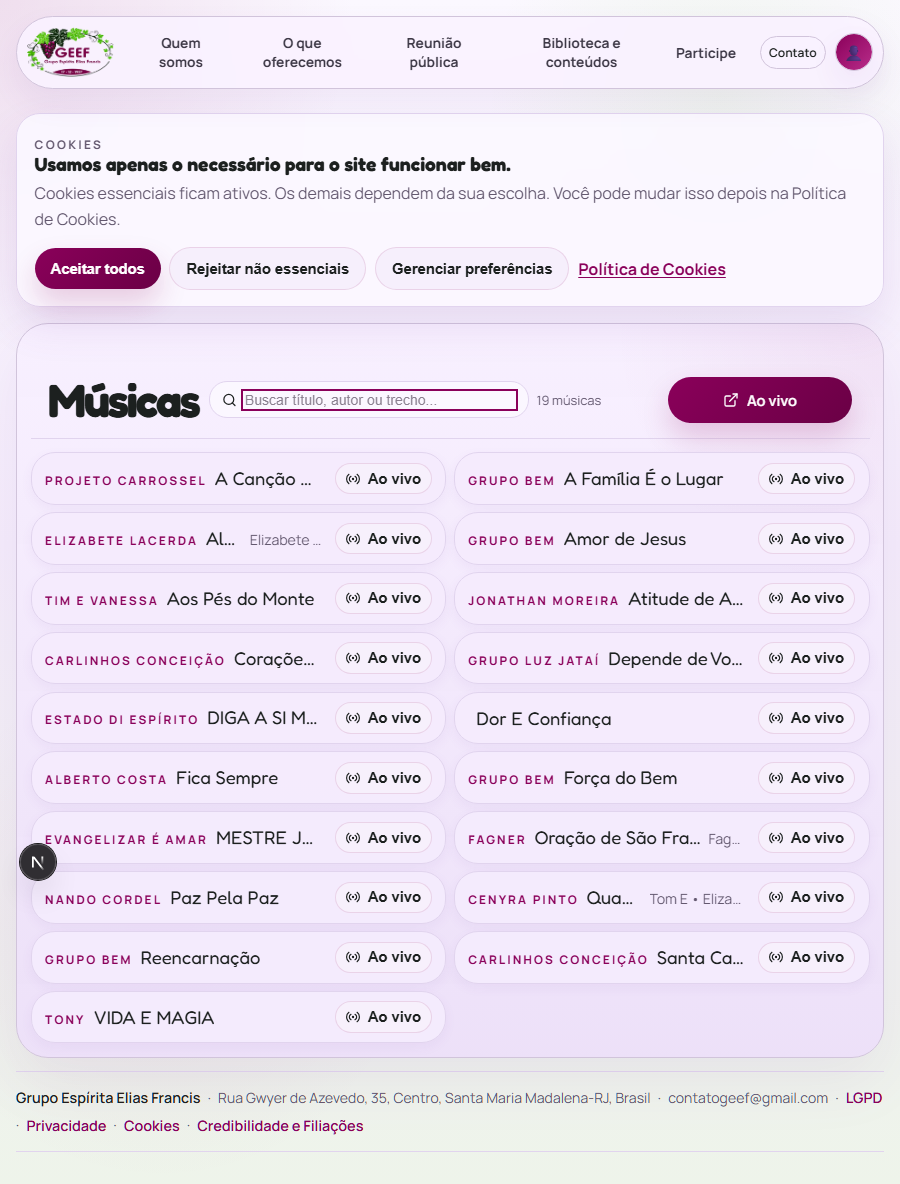
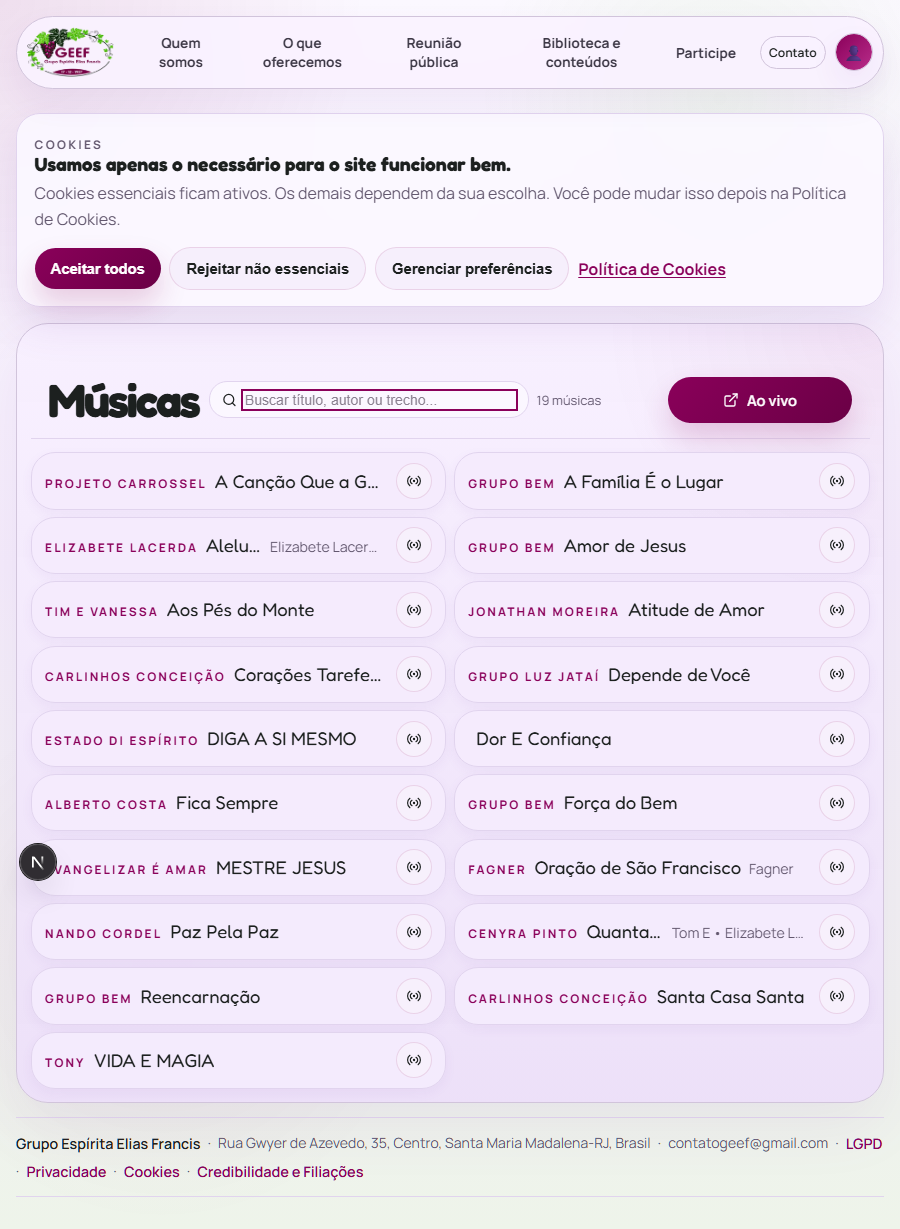
refine: compactar acao ao vivo com icone

diff --git a/styles/globals.css b/styles/globals.css
@@ -1370,14 +1370,20 @@ body.musica-display-route .site-shell {
 }
 
 .musica-catalog-live-button {
-  min-width: 4.75rem !important;
-  padding: 0.42rem 0.62rem !important;
-  gap: 0.28rem;
+  width: 2.25rem;
+  min-width: 2.25rem !important;
+  height: 2.25rem;
+  padding: 0 !important;
+  gap: 0;
   font-size: 0.78rem;
 }
 
 .musica-catalog-live-button--active {
-  min-width: 4.9rem !important;
+  min-width: 2.25rem !important;
+}
+
+.musica-catalog-live-button span {
+  display: none;
 }
 
 @media (max-width: 767px) {
